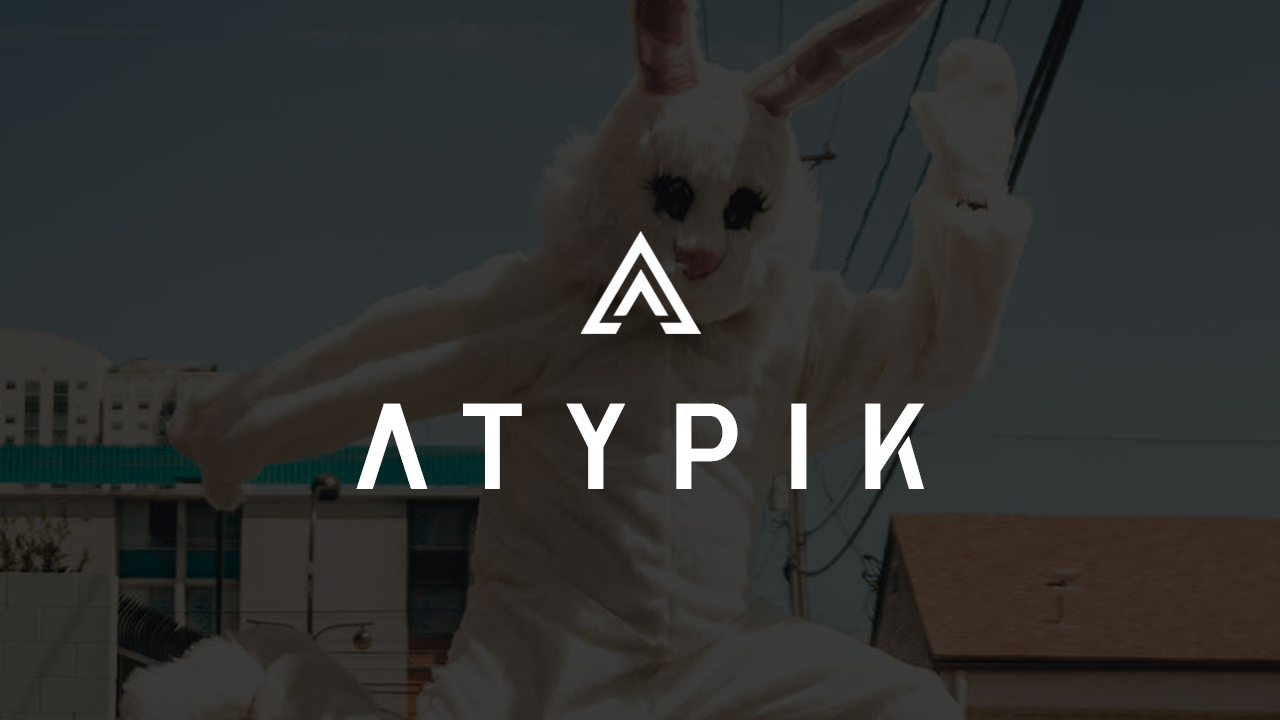
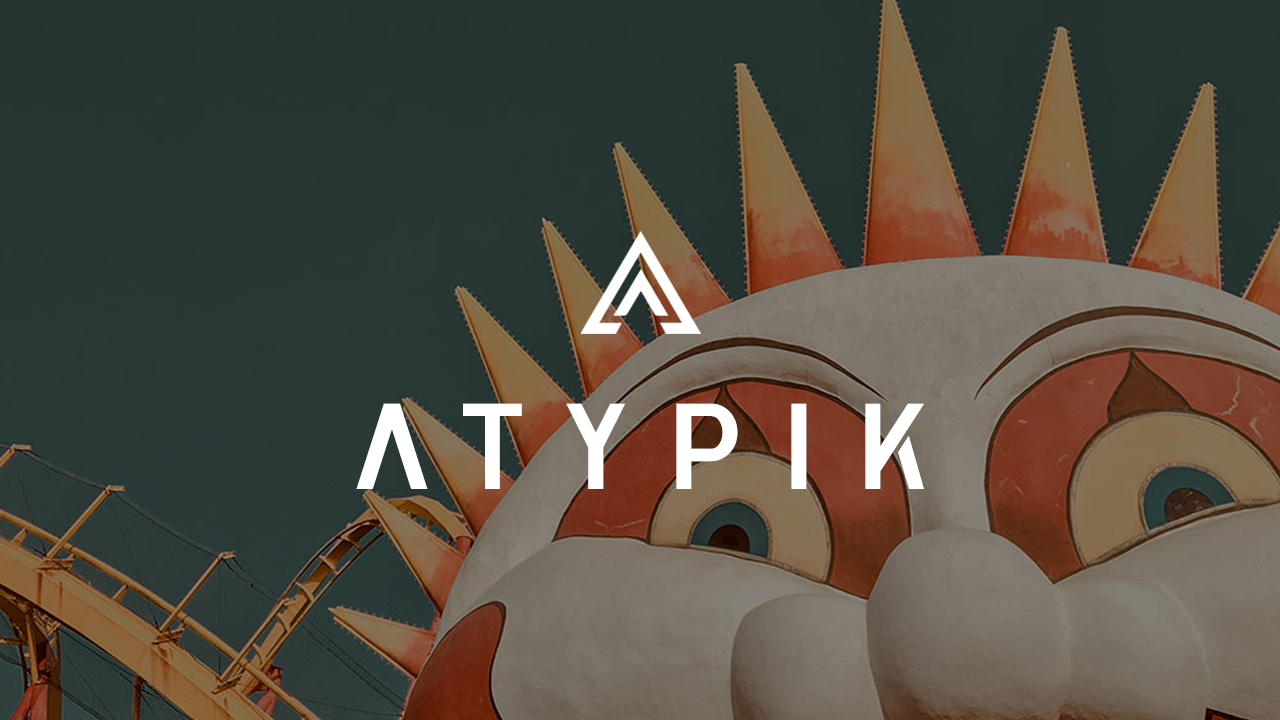
New BG

diff --git a/stylesheets/site.css b/stylesheets/site.css
@@ -311,7 +311,7 @@ body {
 }
 
 html {
-  background: url('/images/bg3.jpg') no-repeat center center fixed;
+  background: url('/images/bg2.jpg') no-repeat center center fixed;
   -webkit-background-size: cover;
   -moz-background-size: cover;
   -o-background-size: cover;
